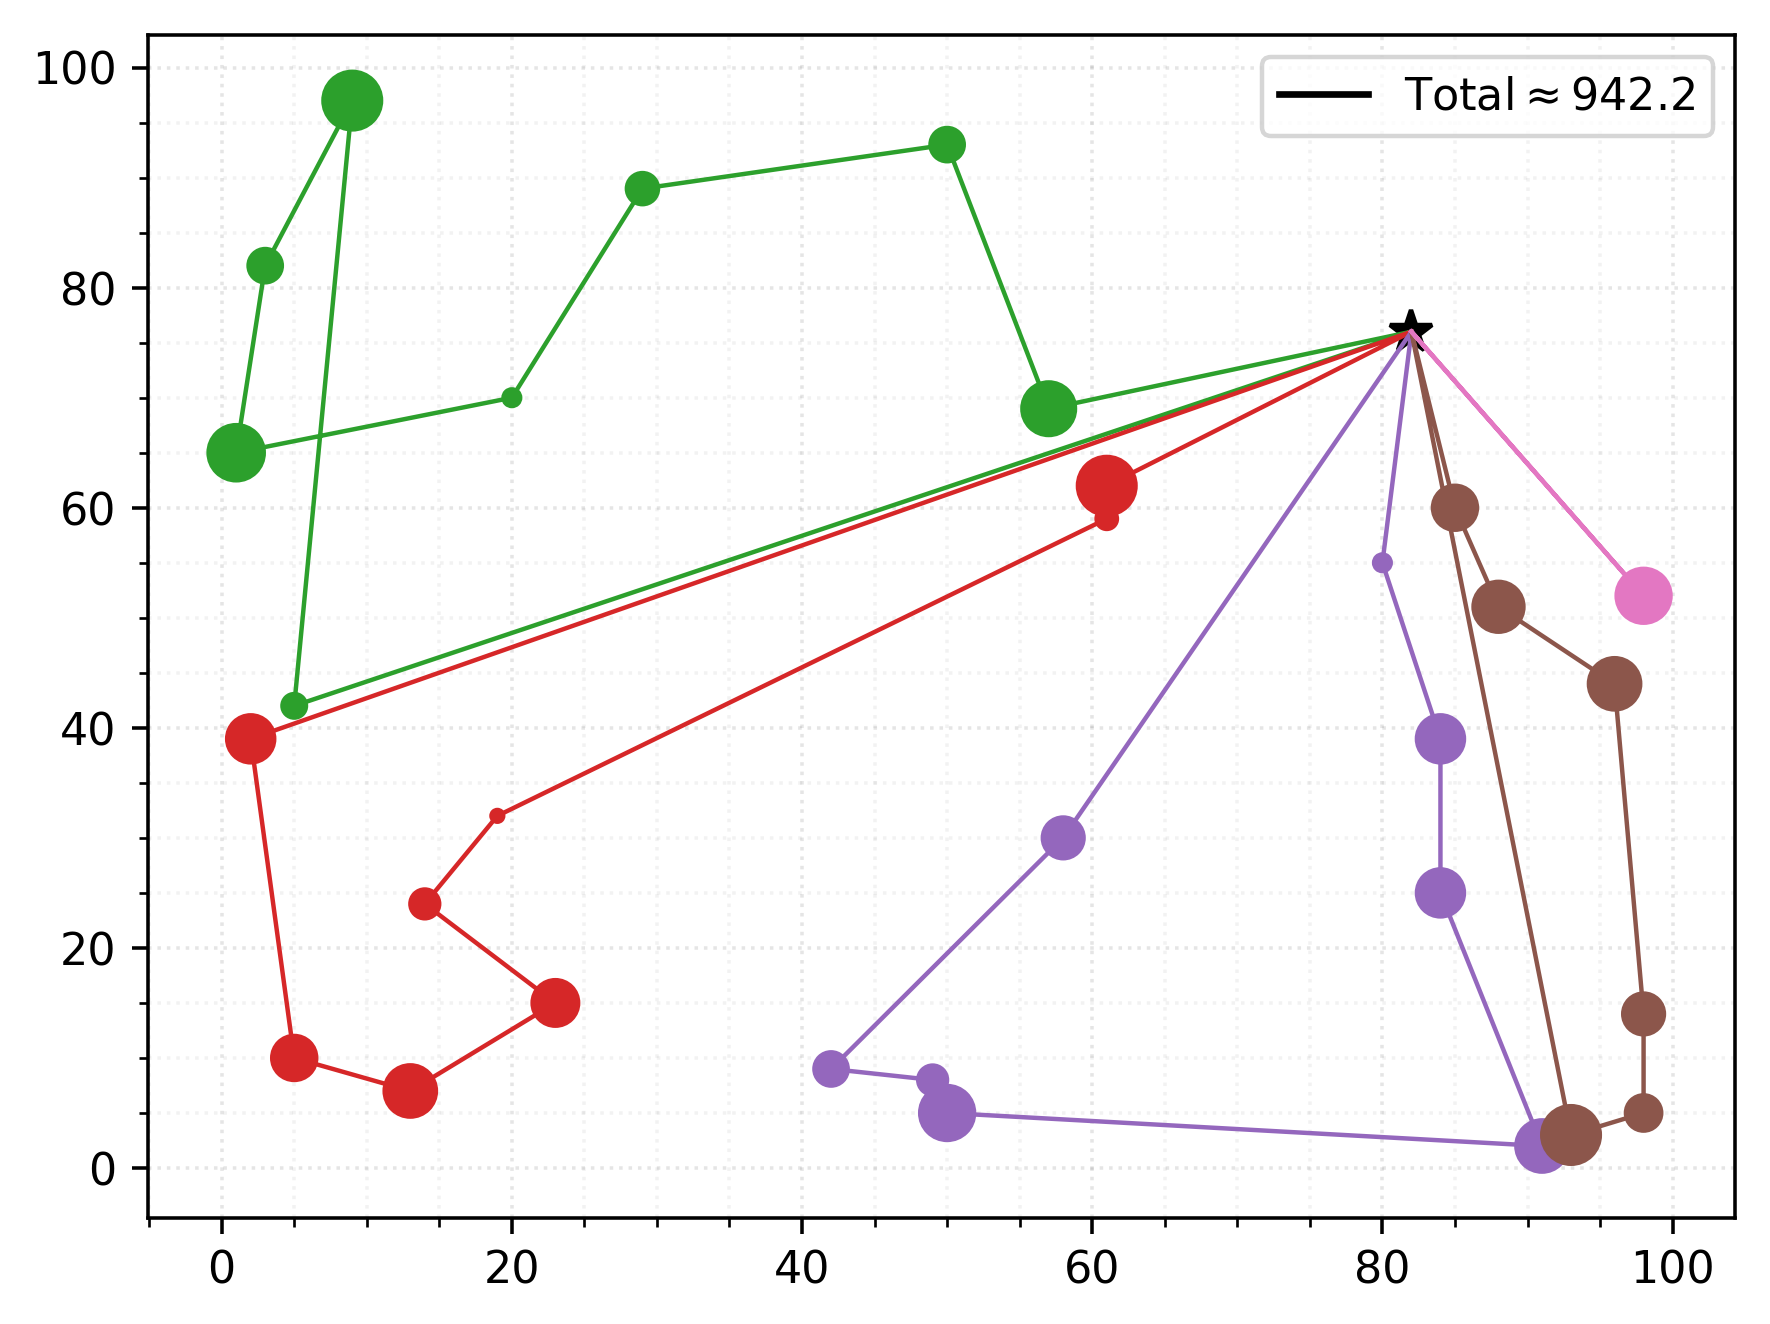
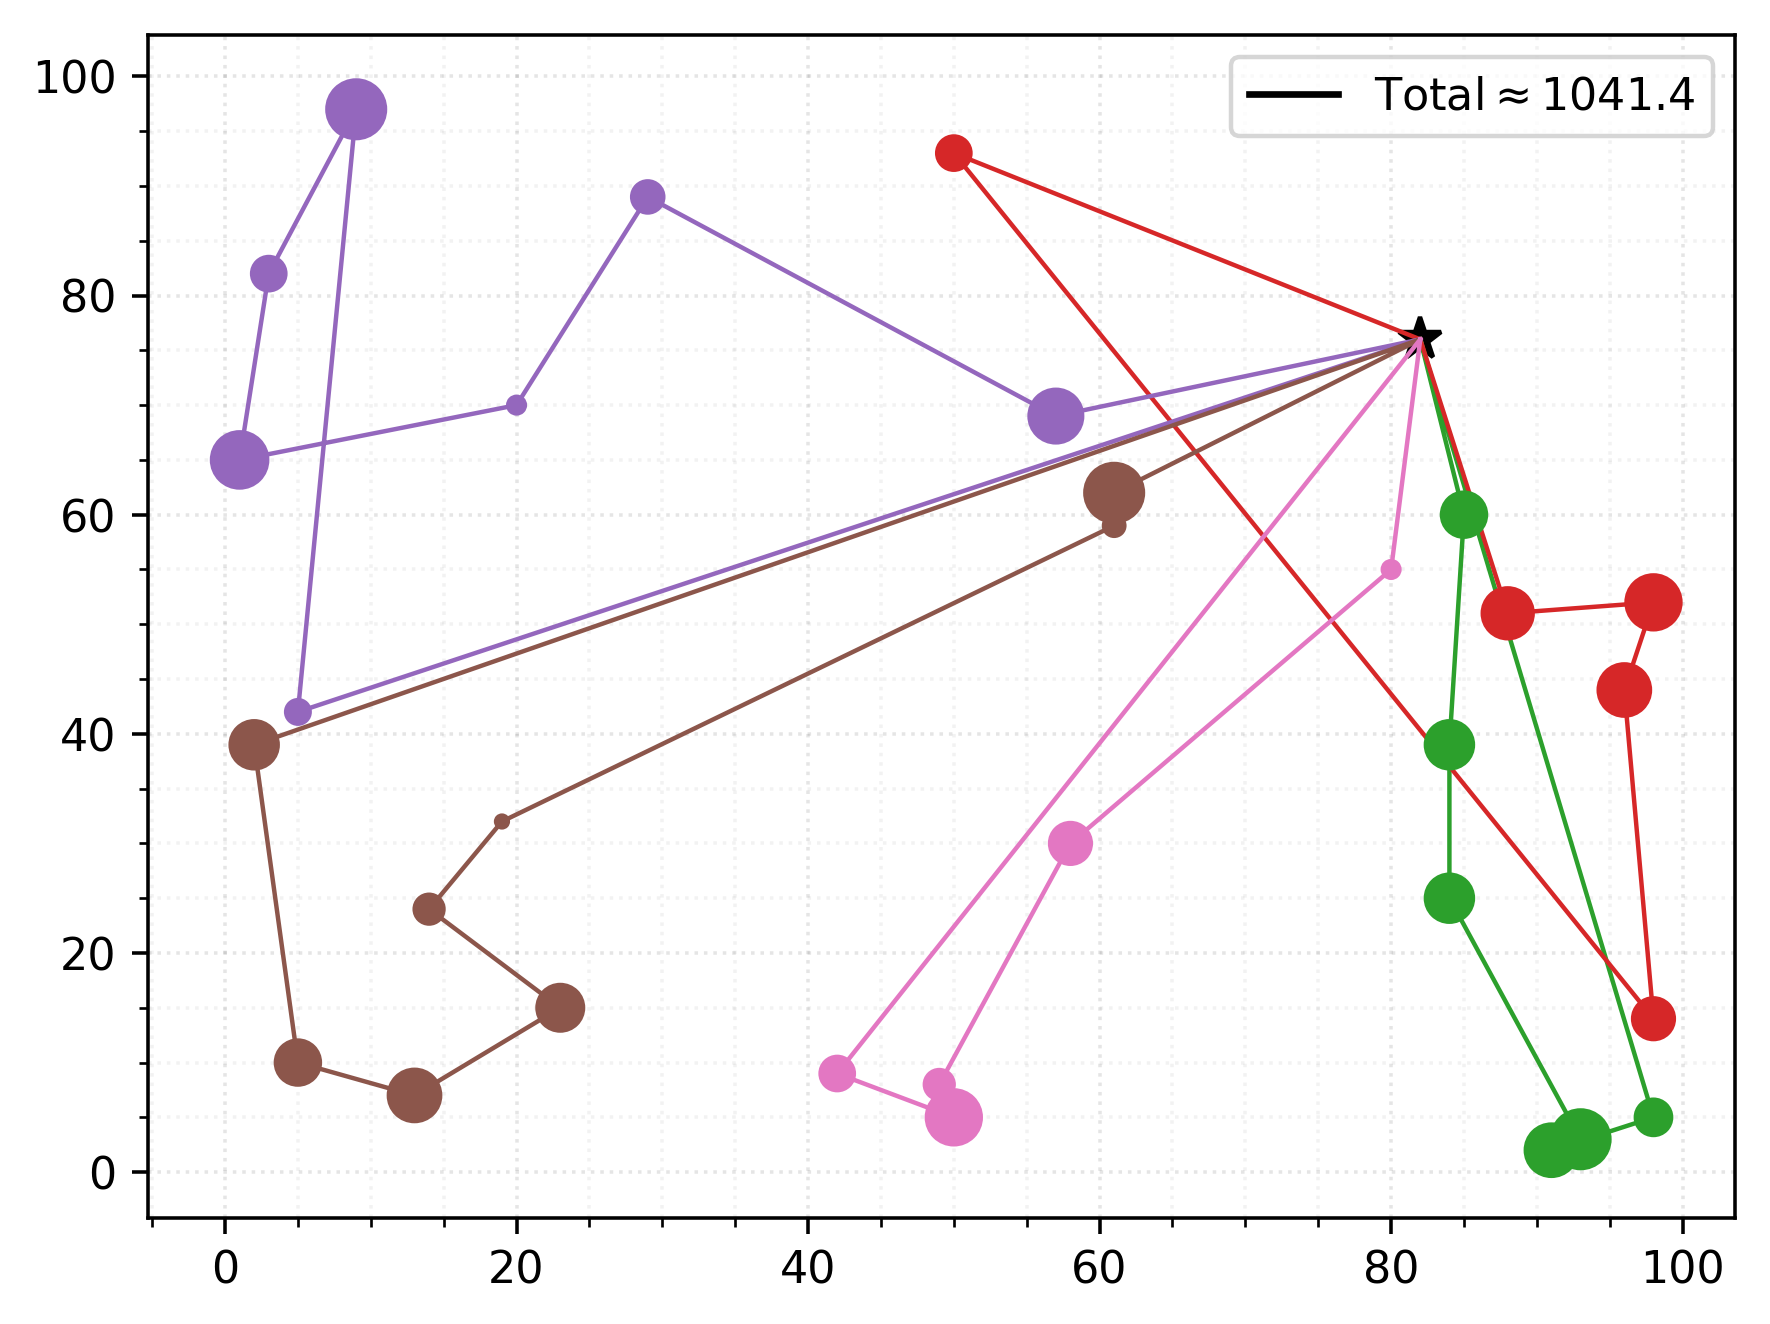
un poco de informe, plot y greedy ya no devuelve depositos

diff --git a/docs/sections/sweep/heuristica.tex b/docs/sections/sweep/heuristica.tex
@@ -60,19 +60,17 @@ A medida que un cluster se va construyendo, la capacidad del camión que atender
 
 Esta falencia puede ser mitigada con metaheurísticas como \textbf{Tabú Search} o \textbf{Annealing} a la hora de seleccionar el siguiente vértice a visitar, teniendo en cuenta el vecindario inmediato y la cantidad de stock sobrante en el camión.
 
-\begin{figure}[H]
-	\centering
-	\begin{minipage}{0.48\textwidth}
-		\centering
-		\includegraphics[width=1\textwidth]{sweep-A-n32-k5}
-		% \caption{\footnotesize Sweeping no adaptativo}
-		\label{fig:sweep-A-n32-k5}
-	\end{minipage}%
-	\hspace{0.03\textwidth}
-	\begin{minipage}{0.48\textwidth}
-		Aca escribo cosas, Aca escribo cosas, Aca escribo cosas, Aca escribo cosas, Aca escribo cosas, Aca escribo cosas, Aca escribo cosas, Aca escribo cosas, Aca escribo cosas,
-	\end{minipage}%
-\end{figure}
+\parindent0em
+\begin{multicols}{2}[\columnsep2em]
+		\includegraphics[width=0.48\textwidth]{sweep-A-n32-k5}
+\columnbreak
+
+	\begin{figure}[H]
+		\caption{Circuito no óptimo en camino verde} \label{fig:sweep-A-n32-k5}
+		\vskip 4pt
+		En este ejemplo se puede ver claramente la aparición de un circuito en la ruta verde. Como ya fue explicado, este se debe a que el algoritmo de resolución del TSP busca los nodos inmediatamente más cercanos sin considerar otras alternativas (a priori más ineficientes) pero que a la larga resultan más óptimas. Al seguir a rajatabla la heurística de \textit{Nearest Neighbours}, se comete un error de \textit{tunnel view} y se ignoran alternativas más eficientes a la larga.
+	\end{figure}
+\end{multicols}
 
 \subsubsubsection{La heurística de \textit{TSP} puede ser muy golosa con las distancias}
 Debido a que el orden de los clientes en los clusters es resuelto a través de la heurística \textit{Nearest Neighbours} que consiste en visitar el nodo inmediatamente más cercano sobre el cual se está parado, se puede perder el panorama general y cometer decisiones costosas para la calidad de la solución final. El ejemplo más recurrente se ve en la presencia de rutas con bucles o \textit{firuletes}, pues se produce una ``ida y vuelta'' innecesaria con total de visitar el nodo más cercano posible. Esto podría ser evitado utilizado alguna metaheurística como Annealing o Tabú Search para decidir a qué vértice saltar o utilizar una técnica como Lambda Exchange para optimizar e intentar eliminar estas manifestaciones del problema descripto. Analizaremos este fenómeno gráficamente:
@@ -95,3 +93,20 @@ Debido a que el orden de los clientes en los clusters es resuelto a través de l
 \end{figure}
 
 En la figura \ref{fig:sweep-with-adaptative} se puede observar una clusterización correcta de los vértices. Los nodos recorridos por el camión verde son cercanos entre sí y lo mismo sucede con los del camión rojo. En cambio, en la figura \ref{fig:sweep-without-adaptative}, se puede observar cómo los clusters se interponen entre sí debido a que se comenzó a barrer angularmente sobre ángulo $0$, interrumpiendo a la mitad la concepción de un cluster óptimo.
+
+\begin{figure}[H]
+	\centering
+	\begin{minipage}{0.48\textwidth}
+		\centering
+		\includegraphics[width=1\textwidth]{sweep-without-adaptative}
+		\caption{\footnotesize Sweeping no adaptativo}
+		\label{fig:big-sweep-without-adaptative-but-good}
+	\end{minipage}%
+	\hspace{0.03\textwidth}
+	\begin{minipage}{0.48\textwidth}
+		\centering
+		\includegraphics[width=1\textwidth]{sweep-with-adaptative}
+		\caption{\footnotesize Sweeping adaptativo}
+		\label{fig:big-sweep-with-adaptative}
+	\end{minipage}%
+\end{figure}

diff --git a/exp/plot.py b/exp/plot.py
@@ -13,12 +13,11 @@ class dotdict(dict):
     __setattr__ = dict.__setitem__
     __delattr__ = dict.__delitem__
 
-def main(solution, dataset_path, should_save_to_png, should_display_each_distance, should_display_total_distances):
-    file = 'withouth-adaptative'
+def main(solution, dataset_path, should_save_to_png, should_display_each_distance, should_display_total_distances, should_be_big_graph):
     routes = load_routes(solution)
     dataset = load_dataset(dataset_path)
 
-    do_plot(dataset.points, dataset.warehouse, routes, should_display_each_distance)
+    do_plot(dataset.points, dataset.warehouse, routes, should_display_each_distance, should_be_big_graph)
     total_distance = get_total_distance(dataset.warehouse, dataset.points, routes)
 
     if(should_display_each_distance or should_display_total_distances):
@@ -32,6 +31,7 @@ def main(solution, dataset_path, should_save_to_png, should_display_each_distanc
 
 def resolve_image_name(solution):
     script_path = sys.path[0]
+    solution = solution.split('/')[-1]
     return script_path + "/images/" + solution.split('.sol')[0] + ".png"
 
 def legend(toggle_total_distance, total_distance):
@@ -93,6 +93,8 @@ def load_routes(file):
     routes = []
 
     for line in f.read().splitlines():
+        if line.strip() == '' continue
+
         route = []
         route.append(0)
         for point in line.strip().split(' '):
@@ -102,13 +104,15 @@ def load_routes(file):
     f.close();
     return routes
 
-def do_plot(points, warehouse, routes, should_display_each_distance):
-    setup(warehouse)
+def do_plot(points, warehouse, routes, should_display_each_distance, should_be_big_graph):
+    setup(warehouse, should_be_big_graph)
     plot_routes(warehouse, points, routes, should_display_each_distance)
 
-def setup(warehouse):
+def setup(warehouse, should_be_big_graph):
     plt.style.use('default')
-    # plt.rcParams["figure.figsize"] = (16, 4)
+
+    if should_be_big_graph:
+        plt.rcParams["figure.figsize"] = (16, 4)
 
     plt.plot(warehouse.x, warehouse.y, marker='*', color='black', linestyle='', markersize=10.0)
 
@@ -194,6 +198,7 @@ if(len(argv) >= 3):
     should_save_to_png = False
     should_display_each_distance = False
     should_display_total_distances = False
+    should_be_big_graph = False
 
     if(len(argv) >= 4):
         should_save_to_png = argv[3].lower() == 'true'
@@ -203,6 +208,10 @@ if(len(argv) >= 3):
 
     if(len(argv) >= 6):
         should_display_total_distances = argv[5].lower() == 'true'
-    main(solution, dataset, should_save_to_png, should_display_each_distance, should_display_total_distances)
+
+    if(len(argv) >= 7):
+        should_be_big_graph = argv[6].lower() == 'true'
+
+    main(solution, dataset, should_save_to_png, should_display_each_distance, should_display_total_distances, should_be_big_graph)
 else:
-    print("python3 plot.py {.sol} {.vrp} {should_save_to_png} {display_each_distance} {display_total_distances}")
+    print("python3 plot.py {.sol} {.vrp} {should_save_to_png?} {display_each_distance?} {display_total_distances?} {big_graph?}")

diff --git a/src/sweep.cc b/src/sweep.cc
@@ -7,24 +7,16 @@ namespace sweep {
 		TransformPointsFromCartesianToPolar(warehouse, points);
 		sort(points.begin(), points.end(), AngleComparator());
 
-		for(Point p : points){
-			// cout << "el punto (" << p.x << ", " << p.y << ") con angulo " << p.angle << endl;
-		}
-
 		if(params.opt1){ // adaptative sweeping
-			// cout << "CON ADAPTATIVE" << endl;
 			float sweep_starting_angle = FindSweepStartingAngle(points);
 			sort(points.begin(), points.end(), AngleComparator(sweep_starting_angle));
-
-			// cout << "## RESORTING AL ANGULO " << sweep_starting_angle << endl;
-			for(Point p : points){
-				// cout << "el punto (" << p.x << ", " << p.y << ") con angulo " << p.angle << endl;
-			}
 		}
 
 		Clusters clusters = BuildClusters(points, max_stock);
 		vector<Truck> routes = BuildRoutesFromClusters(clusters, warehouse, max_stock);
-		return routes;//removeDeposits(routes);
+
+		aux::removeDeposits(routes); // es extra-algoritmico (no lo contamos en la complejidad)
+		return routes;
 	}
 
 	void TransformPointsFromCartesianToPolar(Point &warehouse, vector<Point> &points){
@@ -59,7 +51,6 @@ namespace sweep {
 
 			if(gap > greatest_angle_gap){
 				greatest_angle_gap = gap;
-				// cout << "greatest sucede entre prev=(" << prev.x << ", " << prev.y << ", " << prev.angle << ") y current=(" << current.x << ", " << current.y << ", " << current.angle << ") con gap " << gap << endl;
 				ray_angle = aux::mod((prev.angle + gap / 2), 2*PI);
 			}
 
@@ -75,14 +66,11 @@ namespace sweep {
 		int current_stock = max_stock;
 
 		for(Point &p : points){
-			// cout << "visito a (" << p.x << ", " << p.y << ", " << p.angle << ")" << endl;
 			if(current_stock < p.demand){
-				// cout << "me quede sin stock: " << current_stock << " < " << p.demand << ". agrego nuevo c" << endl;
 				current_stock = max_stock;
 				clusters.push_back(Cluster());
 			}
 
-			// cout << "agrego el punto al cluster. current_stock sera " << current_stock << " - " << p.demand << endl;
 			current_stock -= p.demand;
 			clusters.back().push_back(p);
 		}
@@ -91,7 +79,7 @@ namespace sweep {
 	}
 
 	vector<Truck> BuildRoutesFromClusters(Clusters &clusters, Point &warehouse, int max_stock){
-		vector<Truck> trucks = { Truck(max_stock) };
+		vector<Truck> trucks = { Truck(warehouse, max_stock) };
 
 		for(unsigned int i = 0; i < clusters.size(); i++){
 			Cluster &cluster = clusters[i];
@@ -109,8 +97,11 @@ namespace sweep {
 				last_truck.visit(PopClosestVertexTo(cluster, (*last_visited)));
 			}
 
+			trucks.back().visit(warehouse);
+
 			if(i < clusters.size() - 1)
-				trucks.push_back(Truck(max_stock));
+				trucks.push_back(Truck(warehouse, max_stock));
+
 		}
 
 		return trucks;

diff --git a/docs/informe.tex b/docs/informe.tex
@@ -31,6 +31,7 @@
 \usepackage{caratula}
 \usepackage{url}
 \usepackage{multicol}
+\usepackage{lipsum}
 
 \usepackage{algpseudocode}% Provides: Pseudocode syntax for algorithms
 % para el indentation
@@ -126,7 +127,7 @@
 
 \fancyhf{}
 
-\fancyhead[LO]{Sección \rightmark} % \thesection\ 
+\fancyhead[LO]{Sección \rightmark} % \thesection\
 \fancyfoot[LO]{\small{Bernardo Tuso, Celeste Rodriguez, Facundo Linlaud, Philip Garrett}}
 \fancyfoot[RO]{\thepage}
 \renewcommand{\headrulewidth}{0.5pt}
@@ -171,7 +172,7 @@
 \newpage
 
 Se arregla de la siguiente manera, habíamos probado que $G_{0},..., G_{n}$ son conexos tomando como vertice de partida a $w_{1}$. En este caso llamamos $v_{1}$ a $w_{n}$ pues $G_{n-1}=G-\{w_n\}$ es conexo.
-Ahora si repetimos el procedimiento pero tomando $w_{n}=w'_{1}$ como el vertice de partida, vamos a tener otro orden BFS, $w'_{1},...,w'_{n}$ y como el mismo razonamiento $G - \{w'_n\}$ es conexo. Claramente, $w_{n}=w'_{1}$ es distinto de $w'_{n}$. 
+Ahora si repetimos el procedimiento pero tomando $w_{n}=w'_{1}$ como el vertice de partida, vamos a tener otro orden BFS, $w'_{1},...,w'_{n}$ y como el mismo razonamiento $G - \{w'_n\}$ es conexo. Claramente, $w_{n}=w'_{1}$ es distinto de $w'_{n}$.
 Por lo tanto podemos tomar $v_{2}=w'_{n}$.
 
 \input{sections/introduccion}
@@ -180,4 +181,3 @@ Por lo tanto podemos tomar $v_{2}=w'_{n}$.
 \input{sections/referencias}
 
 \end{document}
-

diff --git a/src/auxiliares.cc b/src/auxiliares.cc
@@ -3,13 +3,13 @@
 #include <stdexcept>
 #include <iostream>
 #include <cmath>
-#include <assert.h> 
+#include <assert.h>
 
-namespace aux { 
+namespace aux {
 	std::ostream& operator<<(std::ostream &strm, const Point &p) {
 		return strm << "(x: " << p.x << ", y: " << p.y << ", demand: " << p.demand << ")";
 	}
-	
+
 	float mod(float a, float mod){
 		while(a > mod or a < 0){
 			if(a < 0)
@@ -34,7 +34,7 @@ namespace aux {
 
 		return b;
 	}
-	
+
 	void print_vector(const std::vector<float> &S){
 		std::cout << '\n' << "{ ";
 		for(unsigned int i = 0; i < S.size(); i++) {
@@ -95,6 +95,18 @@ namespace aux {
 						point_ids.push_back(GetPointId(points, point));
 				aux::print_vector(point_ids, cout, " ");
 				cout << endl;
+			}
+		}
+	}
+
+	void removeDeposits(vector<Truck> &trucks){
+		for(Truck &t : trucks){
+			print_vector(t.routes);
+			if(not t.empty()){
+				cout << "	popeando" << endl;
+				t.routes.pop_back();
+				cout << "	eraseando" << endl;
+				t.routes.erase(t.routes.begin());
 			}
 		}
 	}

diff --git a/src/greedy.cc b/src/greedy.cc
@@ -10,7 +10,7 @@ namespace greedy {
 
 		unsigned int vertex_covered = 0;
 		vector<Truck> trucks;
-		trucks.push_back(Truck(capacity));
+		trucks.push_back(Truck(warehouse, capacity));
 
 		while(vertex_covered < points.size()){
 			Bucket* biggest_fitting_bucket = FindFittestBucket(buckets, trucks, warehouse, capacity);
@@ -20,6 +20,7 @@ namespace greedy {
 			vertex_covered ++;
 		}
 
+		aux::removeDeposits(trucks); // es extra-algoritmico (no lo contamos en la complejidad)
 		return trucks;
 	}
 
@@ -69,7 +70,7 @@ namespace greedy {
 
 		if(i < 0){ // no quedan mas clientes con demanda ≤ lo que me queda en el camion. tengo que crear uno
 			trucks.back().visit(warehouse); // mando el camión lleno devuelta al warehouse
-			trucks.push_back(Truck(capacity)); // creo un nuevo camión
+			trucks.push_back(Truck(warehouse, capacity)); // creo un nuevo camión
 
 			// como dije antes, este while va desde (stock_left; buckets.size() - 1] creo
 			i = buckets.size() - 1;

diff --git a/src/test/test_greedy.cc b/src/test/test_greedy.cc
@@ -101,7 +101,7 @@ void TestFindFittestBucket1(){
 		int last_truck_stock_left = 1;
 
 		vector<Truck> trucks;
-		trucks.push_back(Truck(last_truck_stock_left));
+		trucks.push_back(Truck(WHATEVER_WAREHOUSE, last_truck_stock_left));
 		unsigned int original_trucks_count = trucks.size();
 
 	when("FindFittestBucket is called")
@@ -132,7 +132,7 @@ void TestFindFittestBucket2(){
 		int last_truck_stock_left = 2;
 
 		vector<Truck> trucks;
-		trucks.push_back(Truck(last_truck_stock_left));
+		trucks.push_back(Truck(WHATEVER_WAREHOUSE, last_truck_stock_left));
 		unsigned int original_trucks_count = trucks.size();
 
 	when("FindFittestBucket is called")
@@ -162,7 +162,7 @@ void TestPopNextVertex1(){
 
 		Point current_vertex = Point(6, 2, 1);
 		vector<Truck> trucks;
-		Truck truck(WHATEVER_CAPACITY);
+		Truck truck(WHATEVER_WAREHOUSE, WHATEVER_CAPACITY);
 		truck.visit(current_vertex);
 		trucks.push_back(truck);
 

diff --git a/src/auxiliares.h b/src/auxiliares.h
@@ -1,4 +1,4 @@
-#ifndef AUXILIARES_H_ 
+#ifndef AUXILIARES_H_
 #define AUXILIARES_H_
 
 #define DEBUG true
@@ -6,8 +6,8 @@
 #define print(x) if( PRINT ) std::cout << x << "\n";
 #define debug(x) if( DEBUG ) std::cout << x << "\n";
 
-#include <iostream> 
-#include <fstream> 
+#include <iostream>
+#include <fstream>
 #include <vector>
 #include "string"
 
@@ -23,7 +23,7 @@ namespace aux {
 	int min(int a, int b);
 
 	int max(int a, int b);
-	
+
 	template <typename T>
 	void print_vector(const std::vector<T> &S, std::ostream &output, std::string separator){
 		for(unsigned int i = 0; i < S.size(); i++) {
@@ -48,6 +48,8 @@ namespace aux {
 	int GetPointId(vector<Point> &points, Point &point);
 
 	void PrintTrucks(vector<Point> &points, Point &warehouse, vector<Truck> &trucks);
+
+	void removeDeposits(vector<Truck> &trucks);
 }
 
 #endif

diff --git a/src/truck.h b/src/truck.h
@@ -14,7 +14,9 @@ struct Truck {
 	int cliente_final;
 	bool es_valido = true;
 
-	Truck(int total_capacity): stock_left(total_capacity){};
+	Truck(Point warehouse, int total_capacity): stock_left(total_capacity){
+		routes.push_back(warehouse);
+	};
 
 	Truck(int total_capacity, int cant_nodos, int unico, int demanda) {
 		predecesores = vector<int>(cant_nodos, ninguno);

diff --git a/src/sweep.h b/src/sweep.h
@@ -31,6 +31,9 @@ namespace sweep {
 	vector<Truck> BuildRoutesFromClusters(Clusters &clusters, Point &warehouse, int max_stock);
 
 	Point PopClosestVertexTo(Cluster &cluster, Point &point);
+
+	vector<Truck> removeDeposits(vector<Truck> &trucks);
+	
 }
 
 #endif
